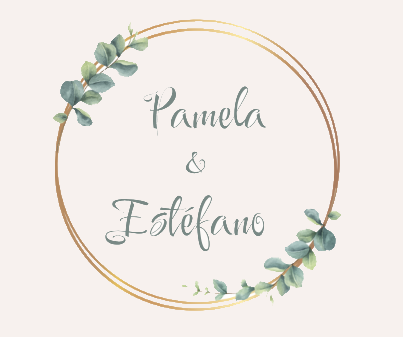
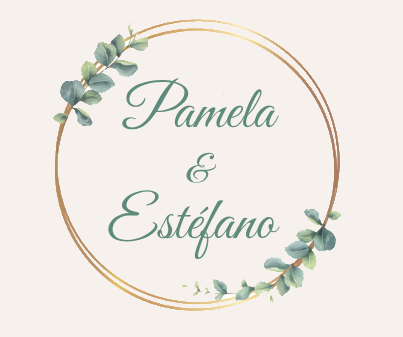
Quitar pregunta intolerancia a la lactosa Actualizar foto de nombres

Changed region(s): [[0.2382, 0.5638, 0.6849, 0.7715], [0.2978, 0.2374, 0.6849, 0.3858], [0.4467, 0.4451, 0.536, 0.5638]]

diff --git a/script.js b/script.js
@@ -439,24 +439,12 @@ function initRSVPForm() {
   const attendanceInput = document.getElementById("attendance");
   const attendanceError = document.getElementById("attendanceError");
   const attendanceBtns = form.querySelectorAll(".attendance-btn");
-  const lactoseInput = document.getElementById("lactoseIntolerant");
-  const lactoseError = document.getElementById("lactoseError");
-  const lactoseBtns = form.querySelectorAll(".lactose-btn");
-  const lactoseField = document.getElementById("lactoseField");
   const dietaryInput = document.getElementById("dietary");
   const dietField = document.getElementById("dietField");
   const successBox = document.getElementById("rsvpSuccess");
   const successTitle = document.getElementById("rsvpSuccessTitle");
   const successText = document.getElementById("rsvpSuccessText");
   const submitBtn = document.getElementById("rsvpSubmitBtn");
-
-  function setLactoseIntolerance(value) {
-    lactoseInput.value = value;
-    lactoseBtns.forEach((btn) => {
-      const isActive = btn.dataset.value === value;
-      btn.setAttribute("aria-pressed", String(isActive));
-    });
-  }
 
   function setAttendance(value) {
     attendanceInput.value = value;
@@ -466,27 +454,19 @@ function initRSVPForm() {
     });
 
     const showExtras = value === "yes";
-    lactoseField.hidden = !showExtras;
     dietField.hidden = !showExtras;
-    if (!showExtras) setLactoseIntolerance("");
   }
 
   attendanceBtns.forEach((btn) => {
     btn.addEventListener("click", () => setAttendance(btn.dataset.value));
   });
 
-  lactoseBtns.forEach((btn) => {
-    btn.addEventListener("click", () => setLactoseIntolerance(btn.dataset.value));
-  });
-
   // Estado inicial: campos adicionales ocultos hasta confirmar asistencia
-  lactoseField.hidden = true;
   dietField.hidden = true;
 
   function clearErrors() {
     fullNameError.textContent = "";
     attendanceError.textContent = "";
-    lactoseError.textContent = "";
   }
 
   function validate() {
@@ -503,11 +483,6 @@ function initRSVPForm() {
       isValid = false;
     }
 
-    if (attendanceInput.value === "yes" && !lactoseInput.value) {
-      lactoseError.textContent = "Por favor, indícanos si eres intolerante a la lactosa.";
-      isValid = false;
-    }
-
     return isValid;
   }
 
@@ -519,7 +494,6 @@ function initRSVPForm() {
     const data = {
       fullName: fullNameInput.value.trim(),
       attendance: attendanceInput.value,
-      lactoseIntolerant: attendanceInput.value === "yes" ? lactoseInput.value : null,
       dietary: dietaryInput.value.trim()
     };
 

diff --git a/index.html b/index.html
@@ -256,16 +256,6 @@
             <span class="field__error" id="attendanceError" role="alert"></span>
           </fieldset>
 
-          <fieldset class="field field--lactose" id="lactoseField">
-            <legend>¿Eres intolerante a la lactosa?</legend>
-            <div class="lactose-toggle" role="group" aria-label="Indicar intolerancia a la lactosa">
-              <button type="button" class="lactose-btn" data-value="yes" aria-pressed="false">Sí</button>
-              <button type="button" class="lactose-btn" data-value="no" aria-pressed="false">No</button>
-            </div>
-            <input type="hidden" id="lactoseIntolerant" name="lactoseIntolerant" required />
-            <span class="field__error" id="lactoseError" role="alert"></span>
-          </fieldset>
-
           <div class="field" id="dietField">
             <label for="dietary">Restricciones alimentarias</label>
             <input type="text" id="dietary" name="dietary" placeholder="Ej. vegetariano, alergias, etc." />

diff --git a/styles.css b/styles.css
@@ -1056,14 +1056,12 @@ textarea:focus-visible {
   min-height: 1em;
 }
 
-.attendance-toggle,
-.lactose-toggle {
+.attendance-toggle {
   display: flex;
   gap: 0.75rem;
 }
 
-.attendance-btn,
-.lactose-btn {
+.attendance-btn {
   flex: 1;
   border: 1px solid var(--color-line);
   background: var(--color-white);
@@ -1076,15 +1074,10 @@ textarea:focus-visible {
   min-height: 44px;
 }
 
-.attendance-btn[aria-pressed="true"],
-.lactose-btn[aria-pressed="true"] {
+.attendance-btn[aria-pressed="true"] {
   background: var(--color-accent-dark);
   border-color: var(--color-accent-dark);
   color: var(--color-white);
-}
-
-.field--lactose[hidden] {
-  display: none;
 }
 
 .rsvp-submit {
